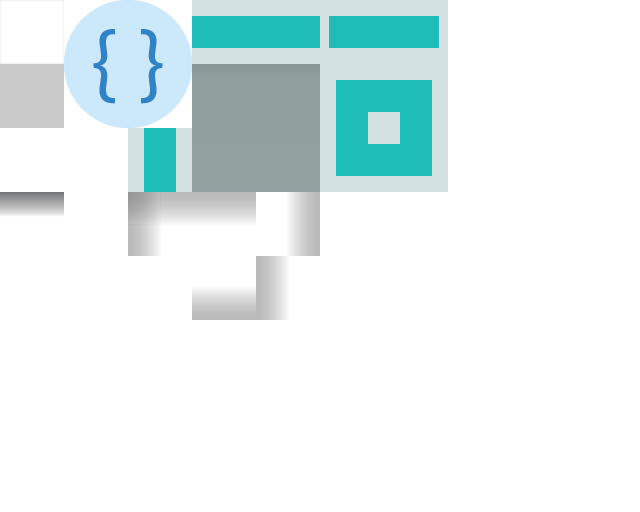
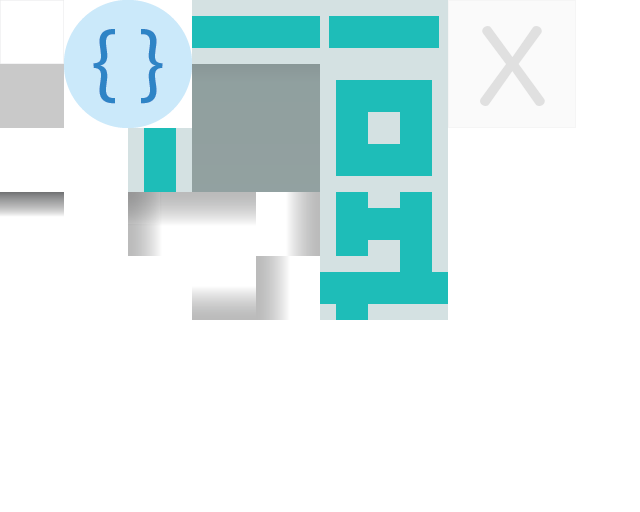
Add moving large block

diff --git a/js/level.js b/js/level.js
@@ -9,7 +9,7 @@ LevelObjectCollection.prototype.get = function(id) {
 Level = {
   name: "Demo",
   //playerStart: { x: Util.fromTile(31), y: Util.fromTile(91) },
-  playerStart: { x: Util.fromTile(31), y: Util.fromTile(81) },
+  playerStart: { x: Util.fromTile(36), y: Util.fromTile(72) },
   tileMap: 'demoLevel',
   scriptDataset: {
     '31,88': {
@@ -30,6 +30,24 @@ Level = {
         { caption: 'close()', value: 'close()', meta: 'method', className: 'door' },
       ]
     },
+    '36,74': {
+      level: "level-4.py",
+      player: "demo-4.py",
+      autocomplete: [
+        { caption: "'left'", value: 'left'},
+        { caption: "'right'", value: 'right'},
+        { caption: "'up'", value: 'up'},
+        { caption: "'down'", value: 'down'},
+        { caption: 'move(direction, distance)', value: 'move(', meta: 'method', className: 'block' },
+      ]
+    },
+    '22,74': {
+      level: "level-5.py",
+      player: "demo-5.py",
+      autocomplete: [
+        { caption: 'move(direction, distance)', value: 'move(', meta: 'method', className: 'block' },
+      ]
+    },
   },
   initialize: function(game) {
     this.game = game;
@@ -43,9 +61,15 @@ Level = {
     });
     this.doors = new LevelObjectCollection({
       1: new this.Door(31, 84),
-      2: new this.Door(27, 77)
+      2: new this.Door(27, 77),
+      3: new this.door(36, 67),
+      4: new this.door(22, 70)
+    });
+    this.largeBlocks = new LevelObjectCollection({
+      1: new this.LargeBlock(40, 71),
     });
     new this.Variaball(41, 81, { script: '27,81', name: 'password' });
+    new this.Variaball(36, 65, { script: '22,74', name: 'key' });
   },
   update: function() {
     this.game.physics.arcade.collide(this.game.player, this.game.blocks);
@@ -60,6 +84,15 @@ Level = {
     Level.game.physics.enable(this.sprite, Phaser.Physics.ARCADE);
     this.sprite.body.immovable = true;
     this.update();
+  },
+  LargeBlock: function(x, y) {
+    this.x = x;
+    this.y = y;
+    this.moveTween = null;
+    this.sprite = Level.game.objects.create(Util.fromTile(x), Util.fromTile(y), 'large-block');
+    this.sprite.frame = 0;
+    Level.game.physics.enable(this.sprite, Phaser.Physics.ARCADE);
+    this.sprite.body.immovable = true;
   },
   Door: function(x, y) {
     this.x = x;
@@ -151,4 +184,43 @@ Level.Door.prototype.close = function() {
     this.is_open = false;
     this.sprite.animations.play('default');
   }, this);
+};
+
+/**
+ * Large block methods.
+ */
+Level.LargeBlock.prototype.move = function(direction, distance) {
+  var delta = null;
+  switch (direction) {
+    case 'left':
+      this.x -= distance;
+      delta = {x: Util.fromTile(this.x)};
+      break;
+    case 'right':
+      this.x += distance;
+      delta = {x: Util.fromTile(this.x)};
+      break;
+    case 'up':
+      this.y -= distance;
+      delta = {y: Util.fromTile(this.y)};
+      break;
+    case 'down':
+      this.y += distance;
+      delta = {y: Util.fromTile(this.y)};
+      break;
+    default:
+      delta = null;
+  }
+  if (delta !== null) {
+    var t = game.add.tween(this.sprite).to(delta, 800, Phaser.Easing.Quadratic.Out, true);
+    var block = this;
+    t.onComplete.add(function() {
+      console.log(block.x, block.y);
+      if (this.x === 32 && this.y === 71) {
+        var door = Level.doors.get(3);
+        door.open();
+        this.sprite.frame = 1;
+      }
+    }, this);
+  }
 };

diff --git a/js/preloader.js b/js/preloader.js
@@ -14,6 +14,7 @@ BasicGame.Preloader.prototype = {
     this.load.image('hexground', 'assets/images/background.png');
     this.load.spritesheet('block', 'assets/images/blocks.png', 64, 64);
     this.load.spritesheet('door', 'assets/images/door.png', 128, 192);
+    this.load.spritesheet('large-block', 'assets/images/large-block.png', 128, 128);
     this.load.spritesheet('variaball', 'assets/images/variaball.png', 64, 64);
 
     // Load game scripts via AJAX

diff --git a/python/level/level-5.py b/python/level/level-5.py
@@ -1,0 +1,36 @@
+from browser import window
+
+SCRIPT_ID = '27,81'
+
+level = window.Level
+variables = (level.variables.to_dict()).get(SCRIPT_ID)
+
+class MissingPasswordError(Exception):
+    pass
+
+class IncorrectPasswordError(Exception):
+    pass
+
+class Door:
+
+    def __init__(self, id):
+        self.obj = level.doors.get(id)
+
+    def open(self, password=None):
+        if password is None:
+            raise MissingPasswordError("Password required to open door")
+        if not self.obj.is_open:
+            if password == "sesame":
+                self.obj.open()
+            else:
+                raise IncorrectPasswordError("Incorrect password")
+
+    def close(self):
+        if self.obj.is_open:
+            self.obj.close()
+
+if variables is not None:
+    if 'password' in variables:
+        password = "sesame"
+
+door = Door('2')

diff --git a/python/level/level-4.py b/python/level/level-4.py
@@ -1,0 +1,16 @@
+from browser import window
+
+SCRIPT_ID = '36,74'
+
+level = window.Level
+variables = (level.variables.to_dict()).get(SCRIPT_ID)
+
+class Block:
+
+    def __init__(self, id):
+        self.obj = level.largeBlocks.get(id)
+
+    def move(self, direction, distance):
+        self.obj.move(direction, distance)
+
+block = Block('1')

diff --git a/python/level/demo-4.py b/python/level/demo-4.py
@@ -1,0 +1,1 @@
+block

diff --git a/python/level/demo-5.py b/python/level/demo-5.py
@@ -1,0 +1,1 @@
+door
